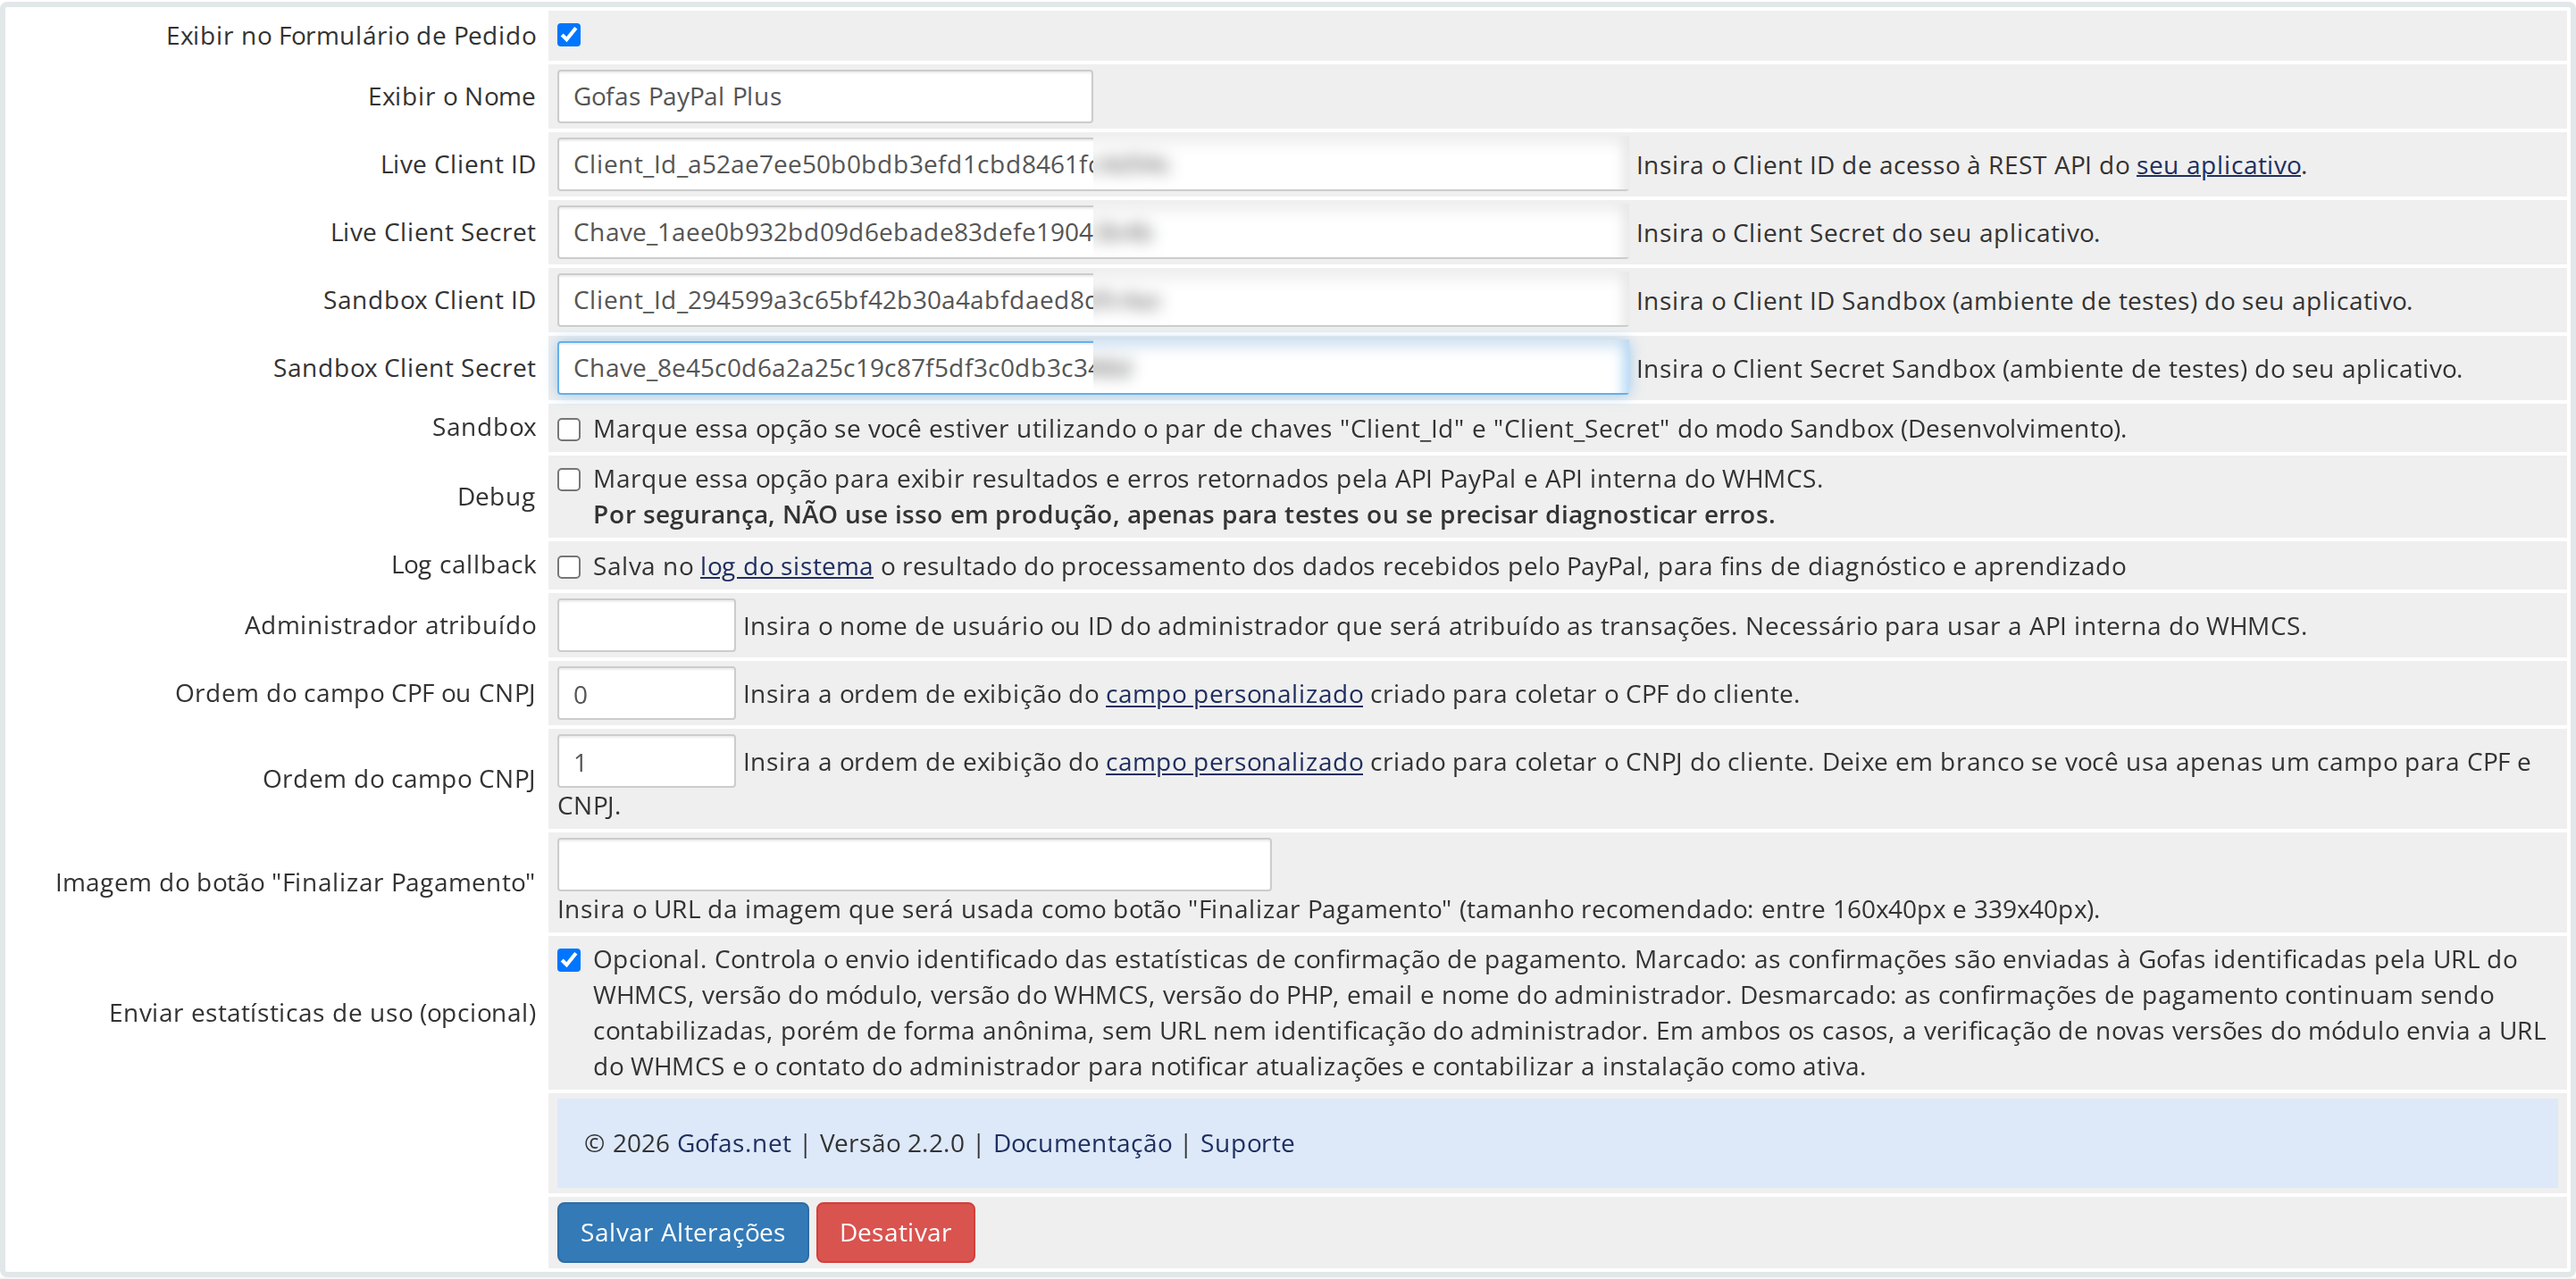
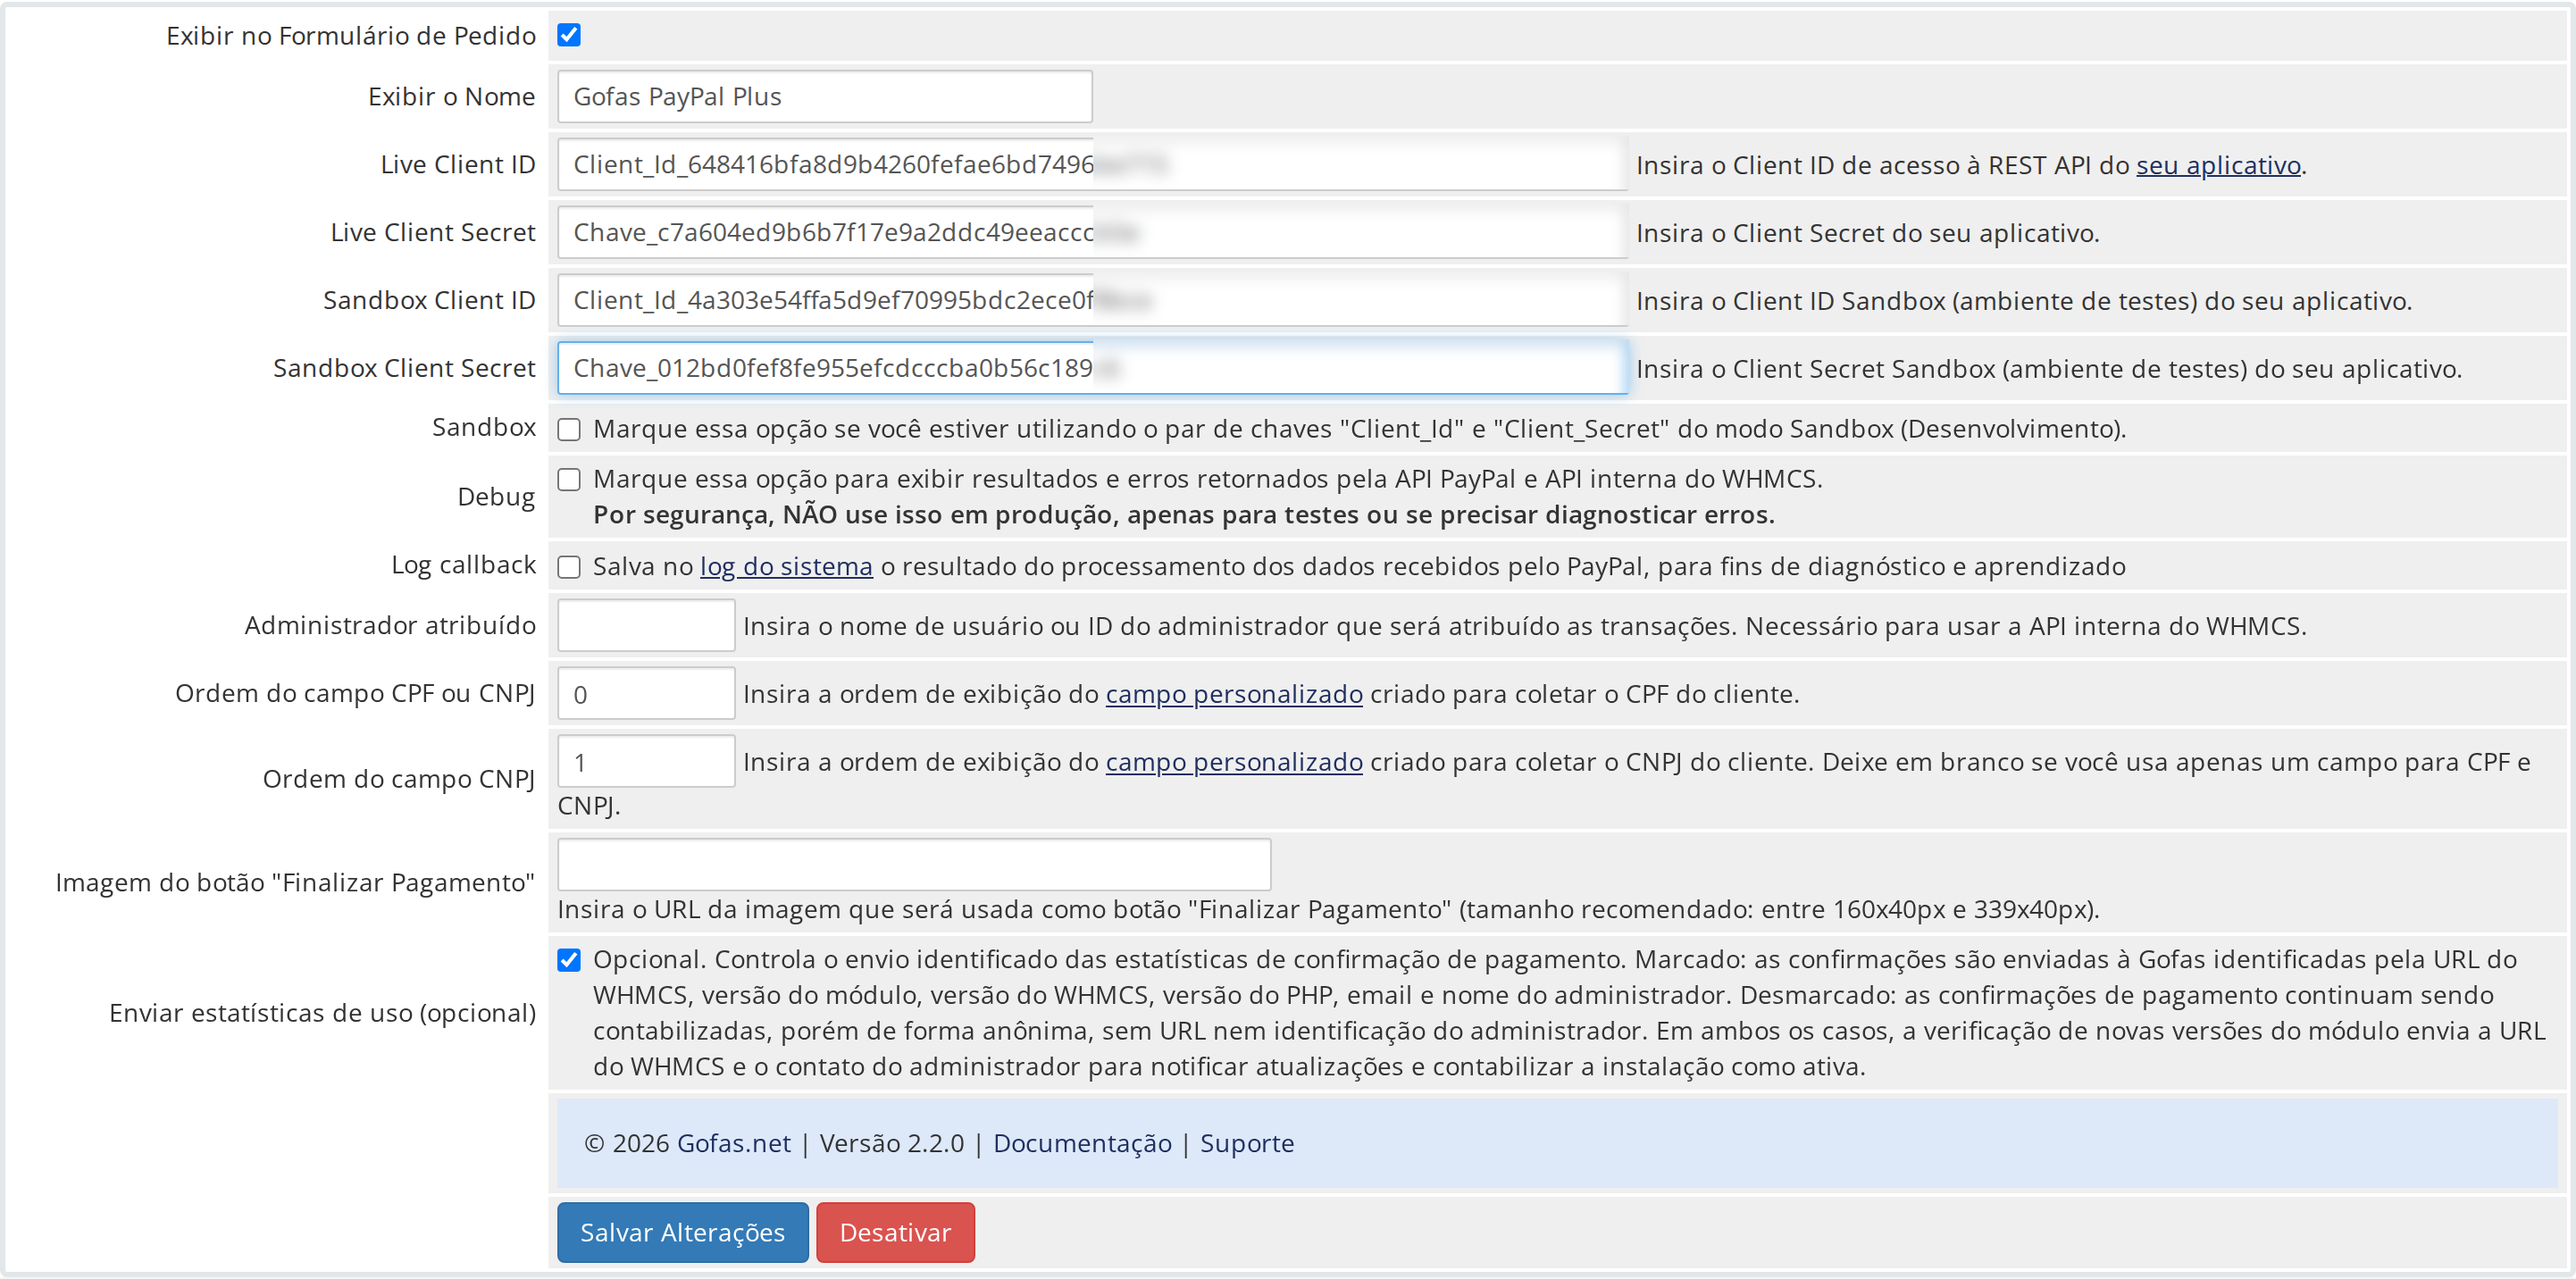
docs: badge de downloads do site, captura sem aviso de hook e licenca objetiva

Changed region(s): [[0.2497, 0.1229, 0.4369, 0.1844], [0.2497, 0.2765, 0.4369, 0.3073], [0.2497, 0.2151, 0.4369, 0.2458]]

diff --git a/readme.md b/readme.md
@@ -1,8 +1,7 @@
 # Módulo PayPal Plus para WHMCS
 
 [![versão](https://img.shields.io/github/v/release/gofas/gofaspaypalplus?label=vers%C3%A3o&color=005071&style=flat-square)](https://github.com/gofas/gofaspaypalplus/releases/latest)
-[![downloads](https://img.shields.io/github/downloads/gofas/gofaspaypalplus/total?label=downloads&color=005071&style=flat-square)](https://github.com/gofas/gofaspaypalplus/releases/latest)
-[![licença](https://img.shields.io/badge/licen%C3%A7a-propriet%C3%A1ria-005071?style=flat-square)](https://gofas.net/contrato-de-venda-de-licenca-de-uso-de-software/)
+[![downloads](https://img.shields.io/endpoint?url=https%3A%2F%2Fgofas.net%2Fwp-json%2Fgofas%2Fv1%2Fbadge%2Fgofaspaypalplus&style=flat-square)](https://github.com/gofas/gofaspaypalplus/releases/latest)
 [![suporte](https://img.shields.io/badge/suporte-f%C3%B3rum%20gratuito-ff8700?style=flat-square)](https://gofas.net/foruns/)
 
 Integra o checkout transparente do PayPal diretamente na fatura do WHMCS, sem redirecionar o cliente para fora do seu site. Desenvolvido pela Gofas Software, é 100% gratuito e de código aberto.
@@ -21,8 +20,6 @@ Integra o checkout transparente do PayPal diretamente na fatura do WHMCS, sem re
 ## Download
 
 **[Baixar a versão mais recente](https://github.com/gofas/gofaspaypalplus/releases/latest/download/gofaspaypalplus.zip)**
-
-O download é contabilizado no site pelo contador de instalações do módulo.
 
 ## Funcionalidades
 
@@ -78,4 +75,10 @@ Fórum de suporte gratuito: https://gofas.net/foruns/
 
 ## Licença
 
-Software proprietário da Gofas Software. O código é público apenas para transparência e consulta; isso não concede licença de uso, modificação ou redistribuição. É vedado modificar, redistribuir, sublicenciar ou realizar engenharia reversa sem autorização prévia por escrito. Veja [LICENSE](LICENSE) e o contrato completo em https://gofas.net/contrato-de-venda-de-licenca-de-uso-de-software/.
+O código deste módulo é público para transparência e auditoria. Isso não transfere a titularidade nem concede licença livre de uso: o software é de propriedade da Gofas Software, protegido pela Lei 9.609/98 e pelos tratados de direitos autorais.
+
+Trechos do [contrato de licença de uso](https://gofas.net/contrato-de-venda-de-licenca-de-uso-de-software/) que se aplicam diretamente a este repositório:
+
+- **Não redistribuir**: é proibido o aluguel, o arrendamento, o empréstimo, a cessão e o licenciamento do software a terceiros, total ou parcial, assim como o fornecimento de serviços de hospedagem comercial do software (Cláusula 10ª, §3º).
+- **Não modificar**: é vedado qualquer procedimento que implique engenharia reversa, descompilação, desmontagem, tradução, adaptação ou modificação do software, bem como qualquer alteração não autorizada de suas funcionalidades (Cláusula 10ª, §2º).
+- **Módulo alterado perde o suporte**: a Gofas não se responsabiliza por defeitos decorrentes de alteração do software, de operação por pessoas não autorizadas ou da integração com softwares de terceiros (Cláusula 10ª, §7º). O suporte é uma cortesia e não é garantido pela licença (Cláusula 7ª, §1º).
